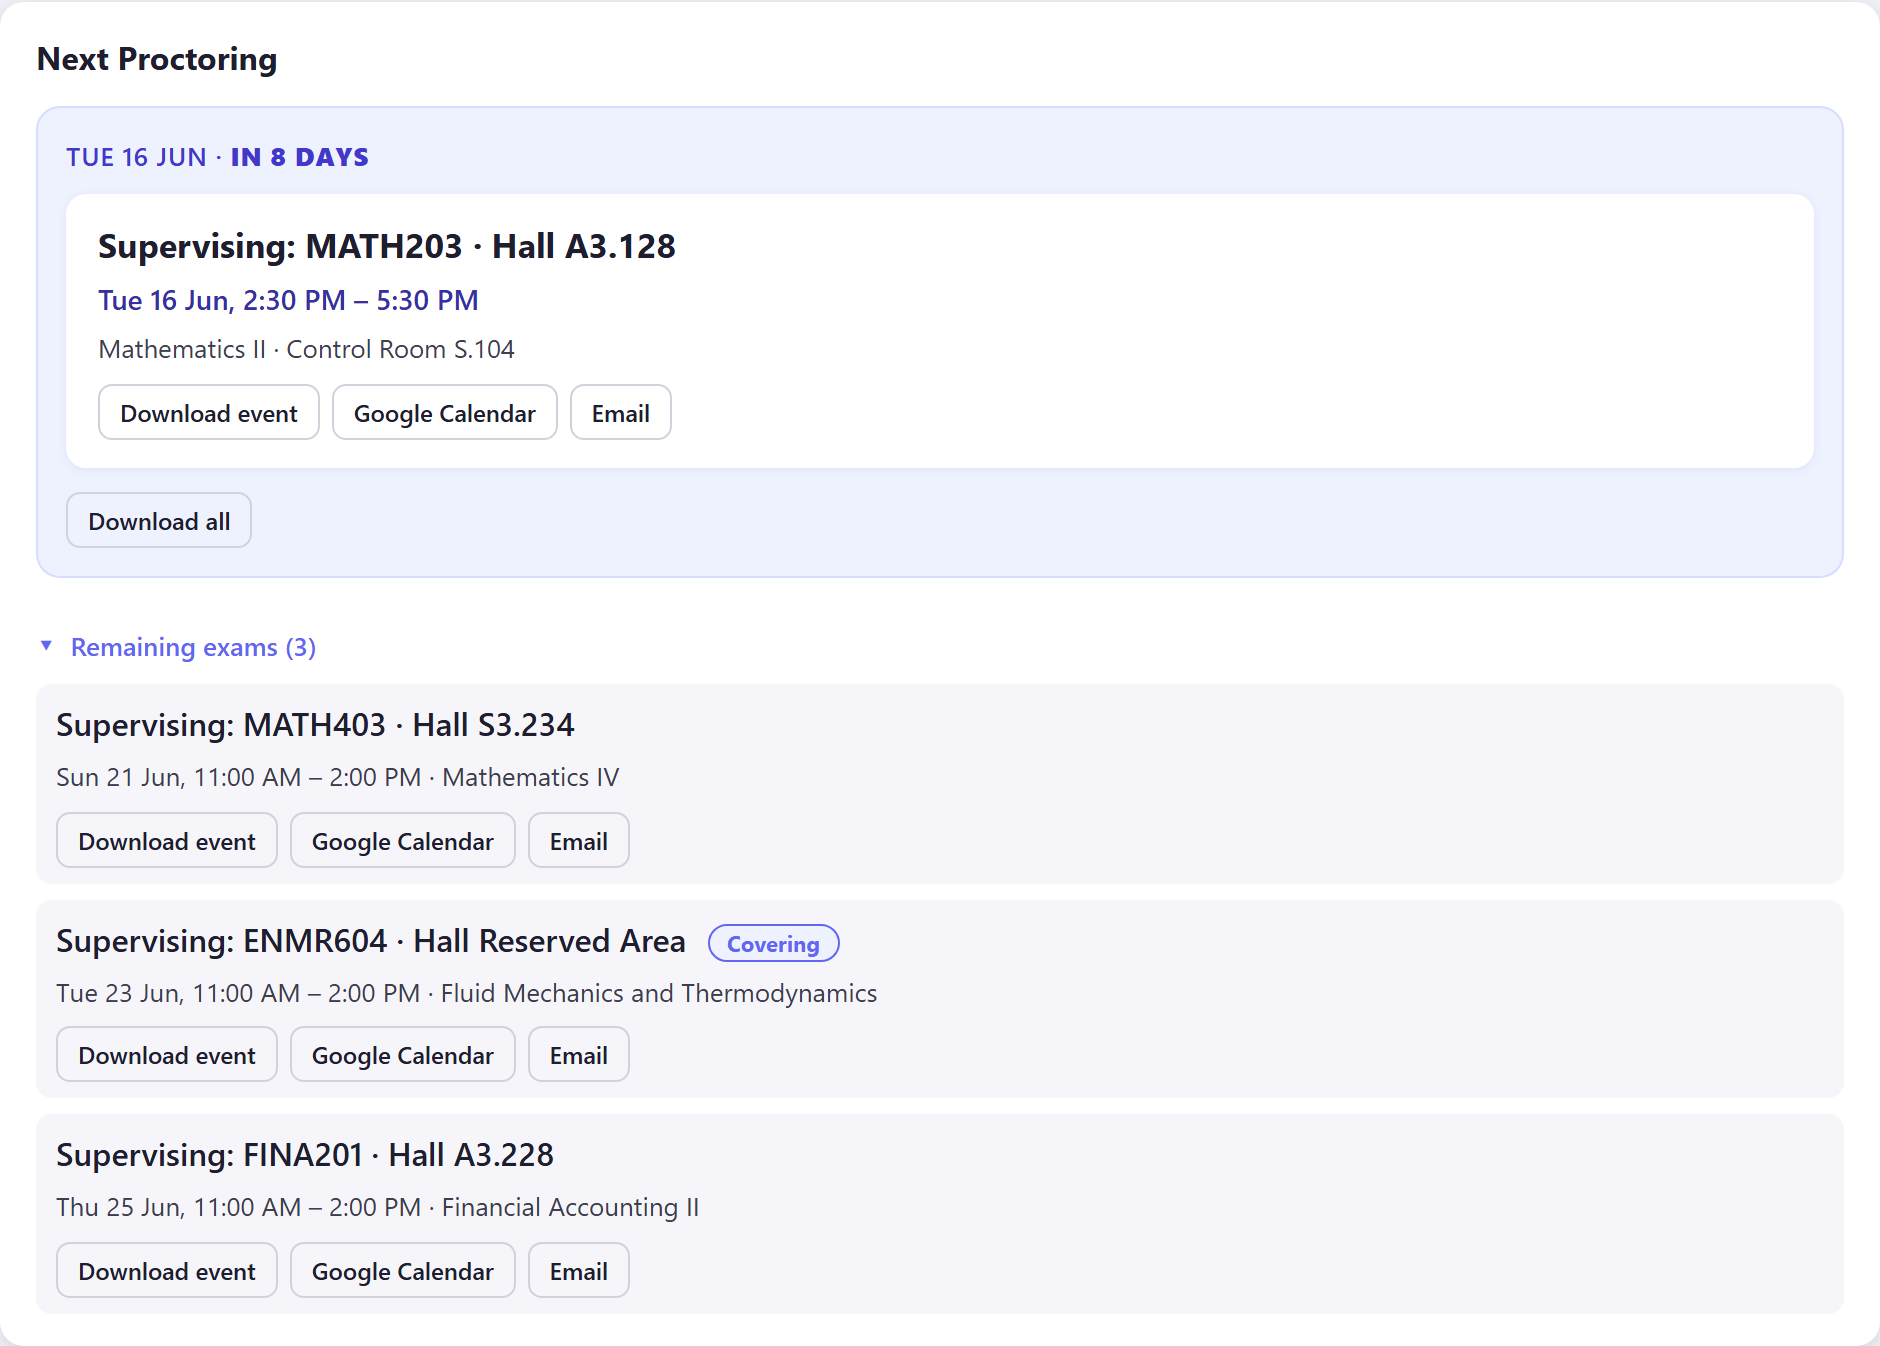
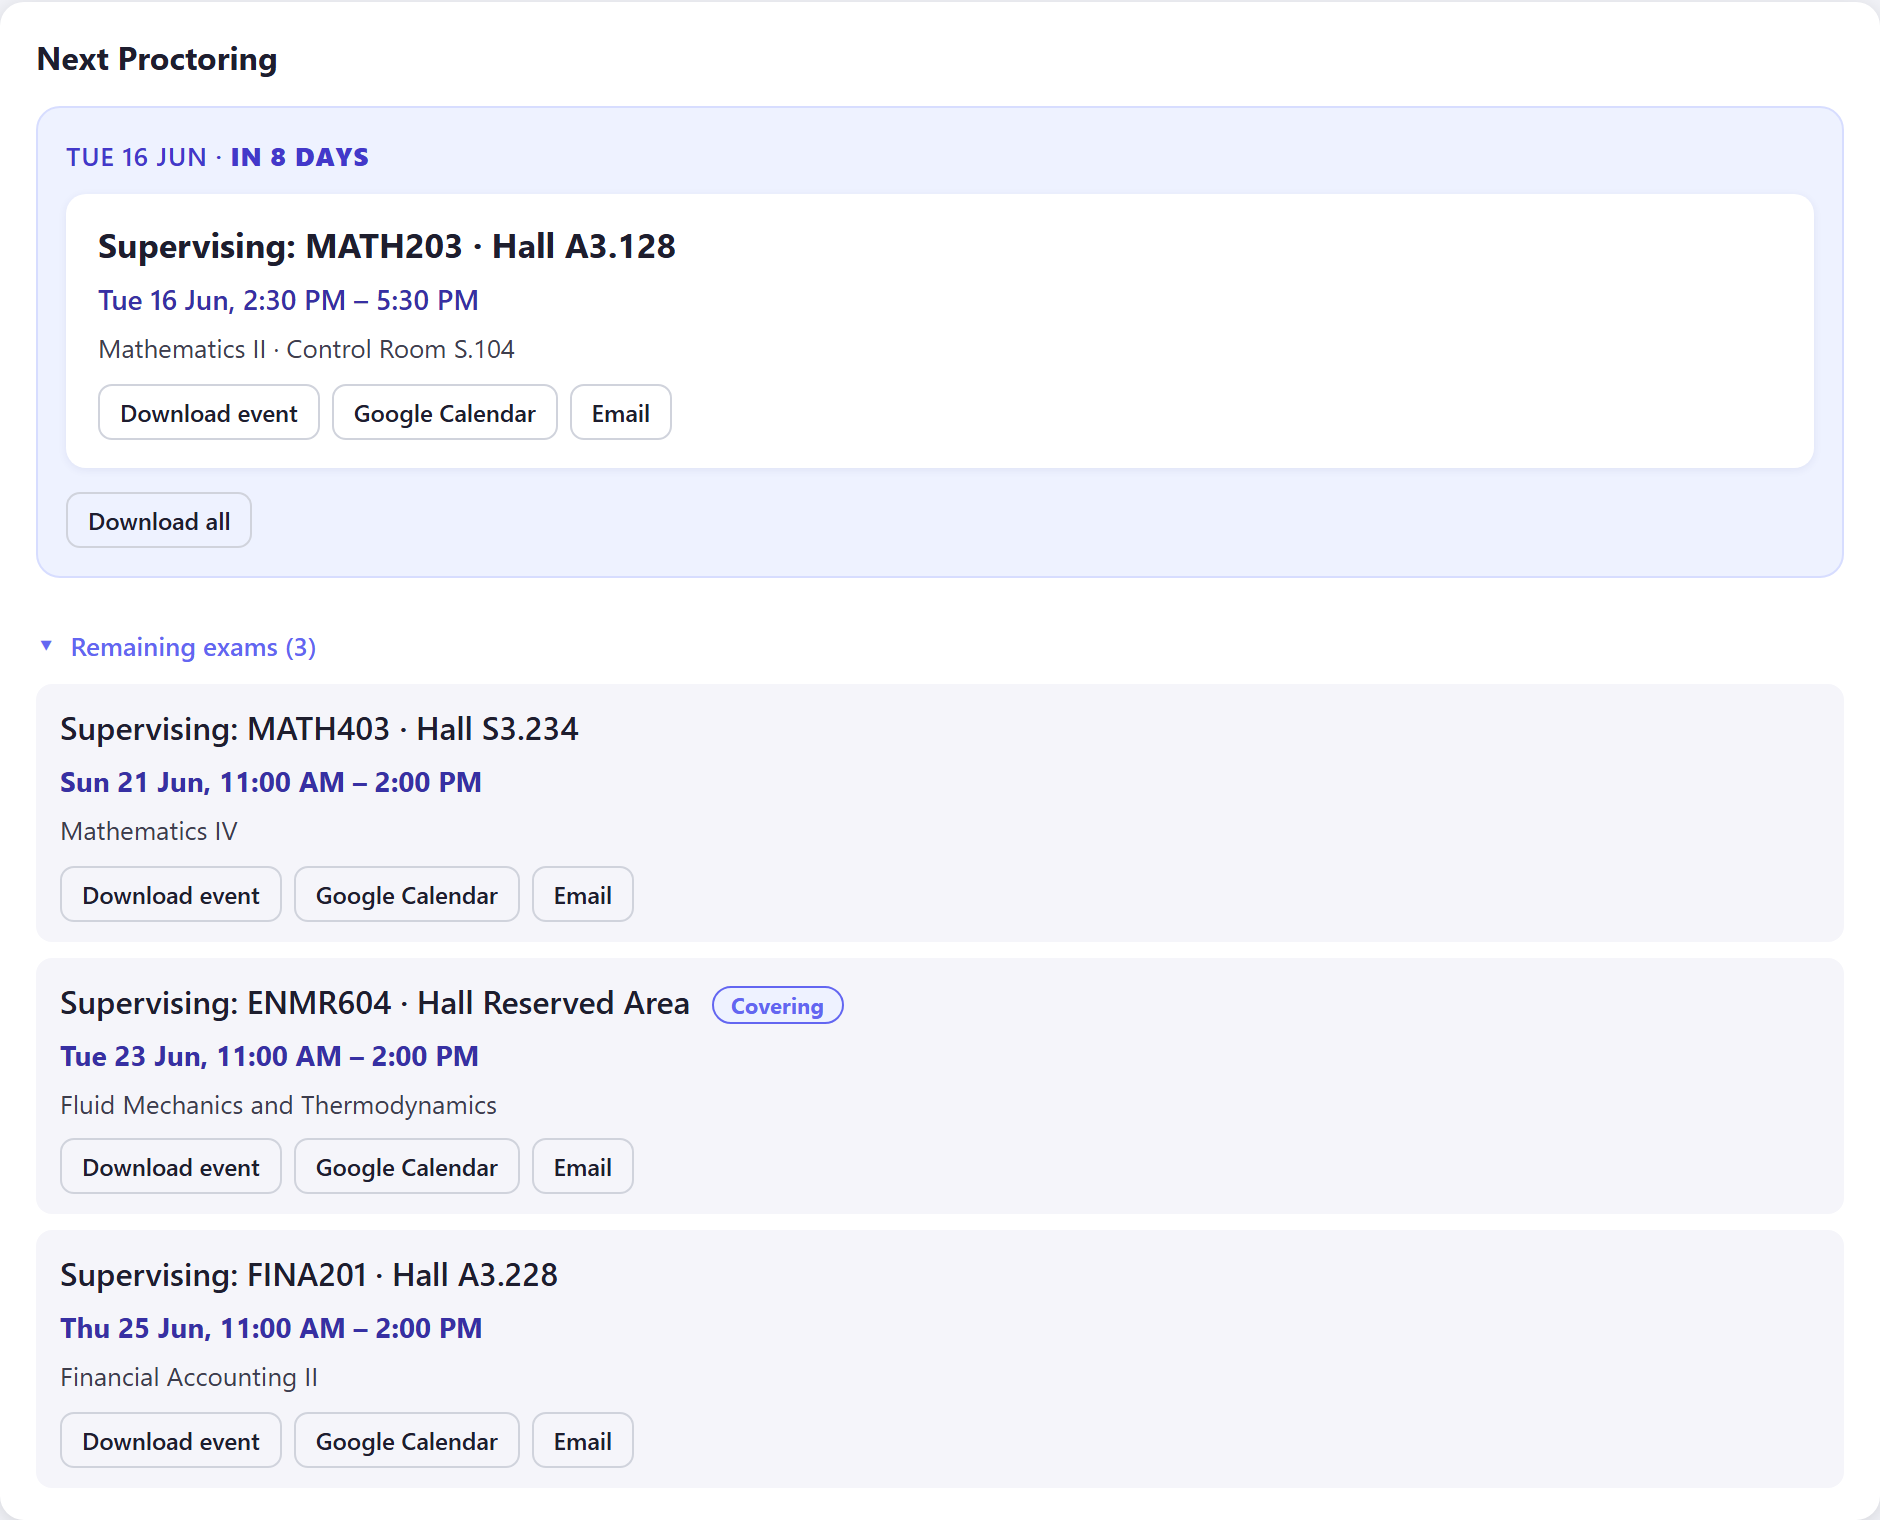
feat(proctoring-reminder): make date/time prominent in remaining-exams rows

diff --git a/scripts/GIU Proctoring Reminder.js b/scripts/GIU Proctoring Reminder.js
@@ -3,7 +3,7 @@
 // @description Shows your next proctoring session on the portal home page and exports reminders to calendar/email
 // @match       https://portal.giu-uni.de/GIUb/INTStaff/Home.aspx
 // @namespace   ramin0
-// @version     1.7
+// @version     1.8
 // @author      Mo.Elmaadawy
[1 lines of base64/hex data omitted]
 // @run-at      document-idle
@@ -299,7 +299,8 @@
                         ${remaining.map(s => `
                             <div class="gius-pr-row" data-idx="${upcoming.indexOf(s)}">
                                 <div class="gius-pr-title">${dutyLabel(s)}: ${s.courseCode} · Hall ${s.hall} ${badge(s)}</div>
-                                <div class="gius-pr-meta">${fmtHuman(s.start)} – ${fmtTimeOnly(s.end)} · ${s.examName}</div>
+                                <div class="gius-pr-row-time">${fmtHuman(s.start)} – ${fmtTimeOnly(s.end)}</div>
+                                <div class="gius-pr-meta">${s.examName}</div>
                                 <div class="gius-pr-actions"></div>
                             </div>`).join('')}
                     </div>
@@ -360,7 +361,8 @@
             .gius-pr-expand-wrapper.gius-pr-expanded{grid-template-rows:1fr;}
             .gius-pr-expand-inner{overflow:hidden;}
             .gius-pr-all{margin-top:6px;display:flex;flex-direction:column;gap:8px;}
-            .gius-pr-row{background:#f5f5fa;border-radius:8px;padding:8px 10px;}
+            .gius-pr-row{background:#f5f5fa;border-radius:8px;padding:10px 12px;}
+            .gius-pr-row-time{font-size:14px;font-weight:700;color:#3730a3;margin:2px 0 4px;}
             .gius-pr-empty{font-size:13px;opacity:.85;}`;
         const style = document.createElement('style');
         style.id = 'gius-pr-style';

diff --git a/README.md b/README.md
@@ -314,7 +314,7 @@ https://portal.giu-uni.de/GIUb/INTStaff/ClassAttendance_ManageStudentAttendances
 
 ### 8. GIU Proctoring Reminder
 
-**File:** `GIU Proctoring Reminder.js` | **Version:** 1.7 | **Author:** Mo.Elmaadawy
+**File:** `GIU Proctoring Reminder.js` | **Version:** 1.8 | **Author:** Mo.Elmaadawy
 
 Shows your next proctoring session on the portal home page and exports reminders to `.ics`, Google Calendar, or email. Fetches your timetable in the background, caches it for 6 hours, and renders a full-width widget directly under the **Target List** block.
 
